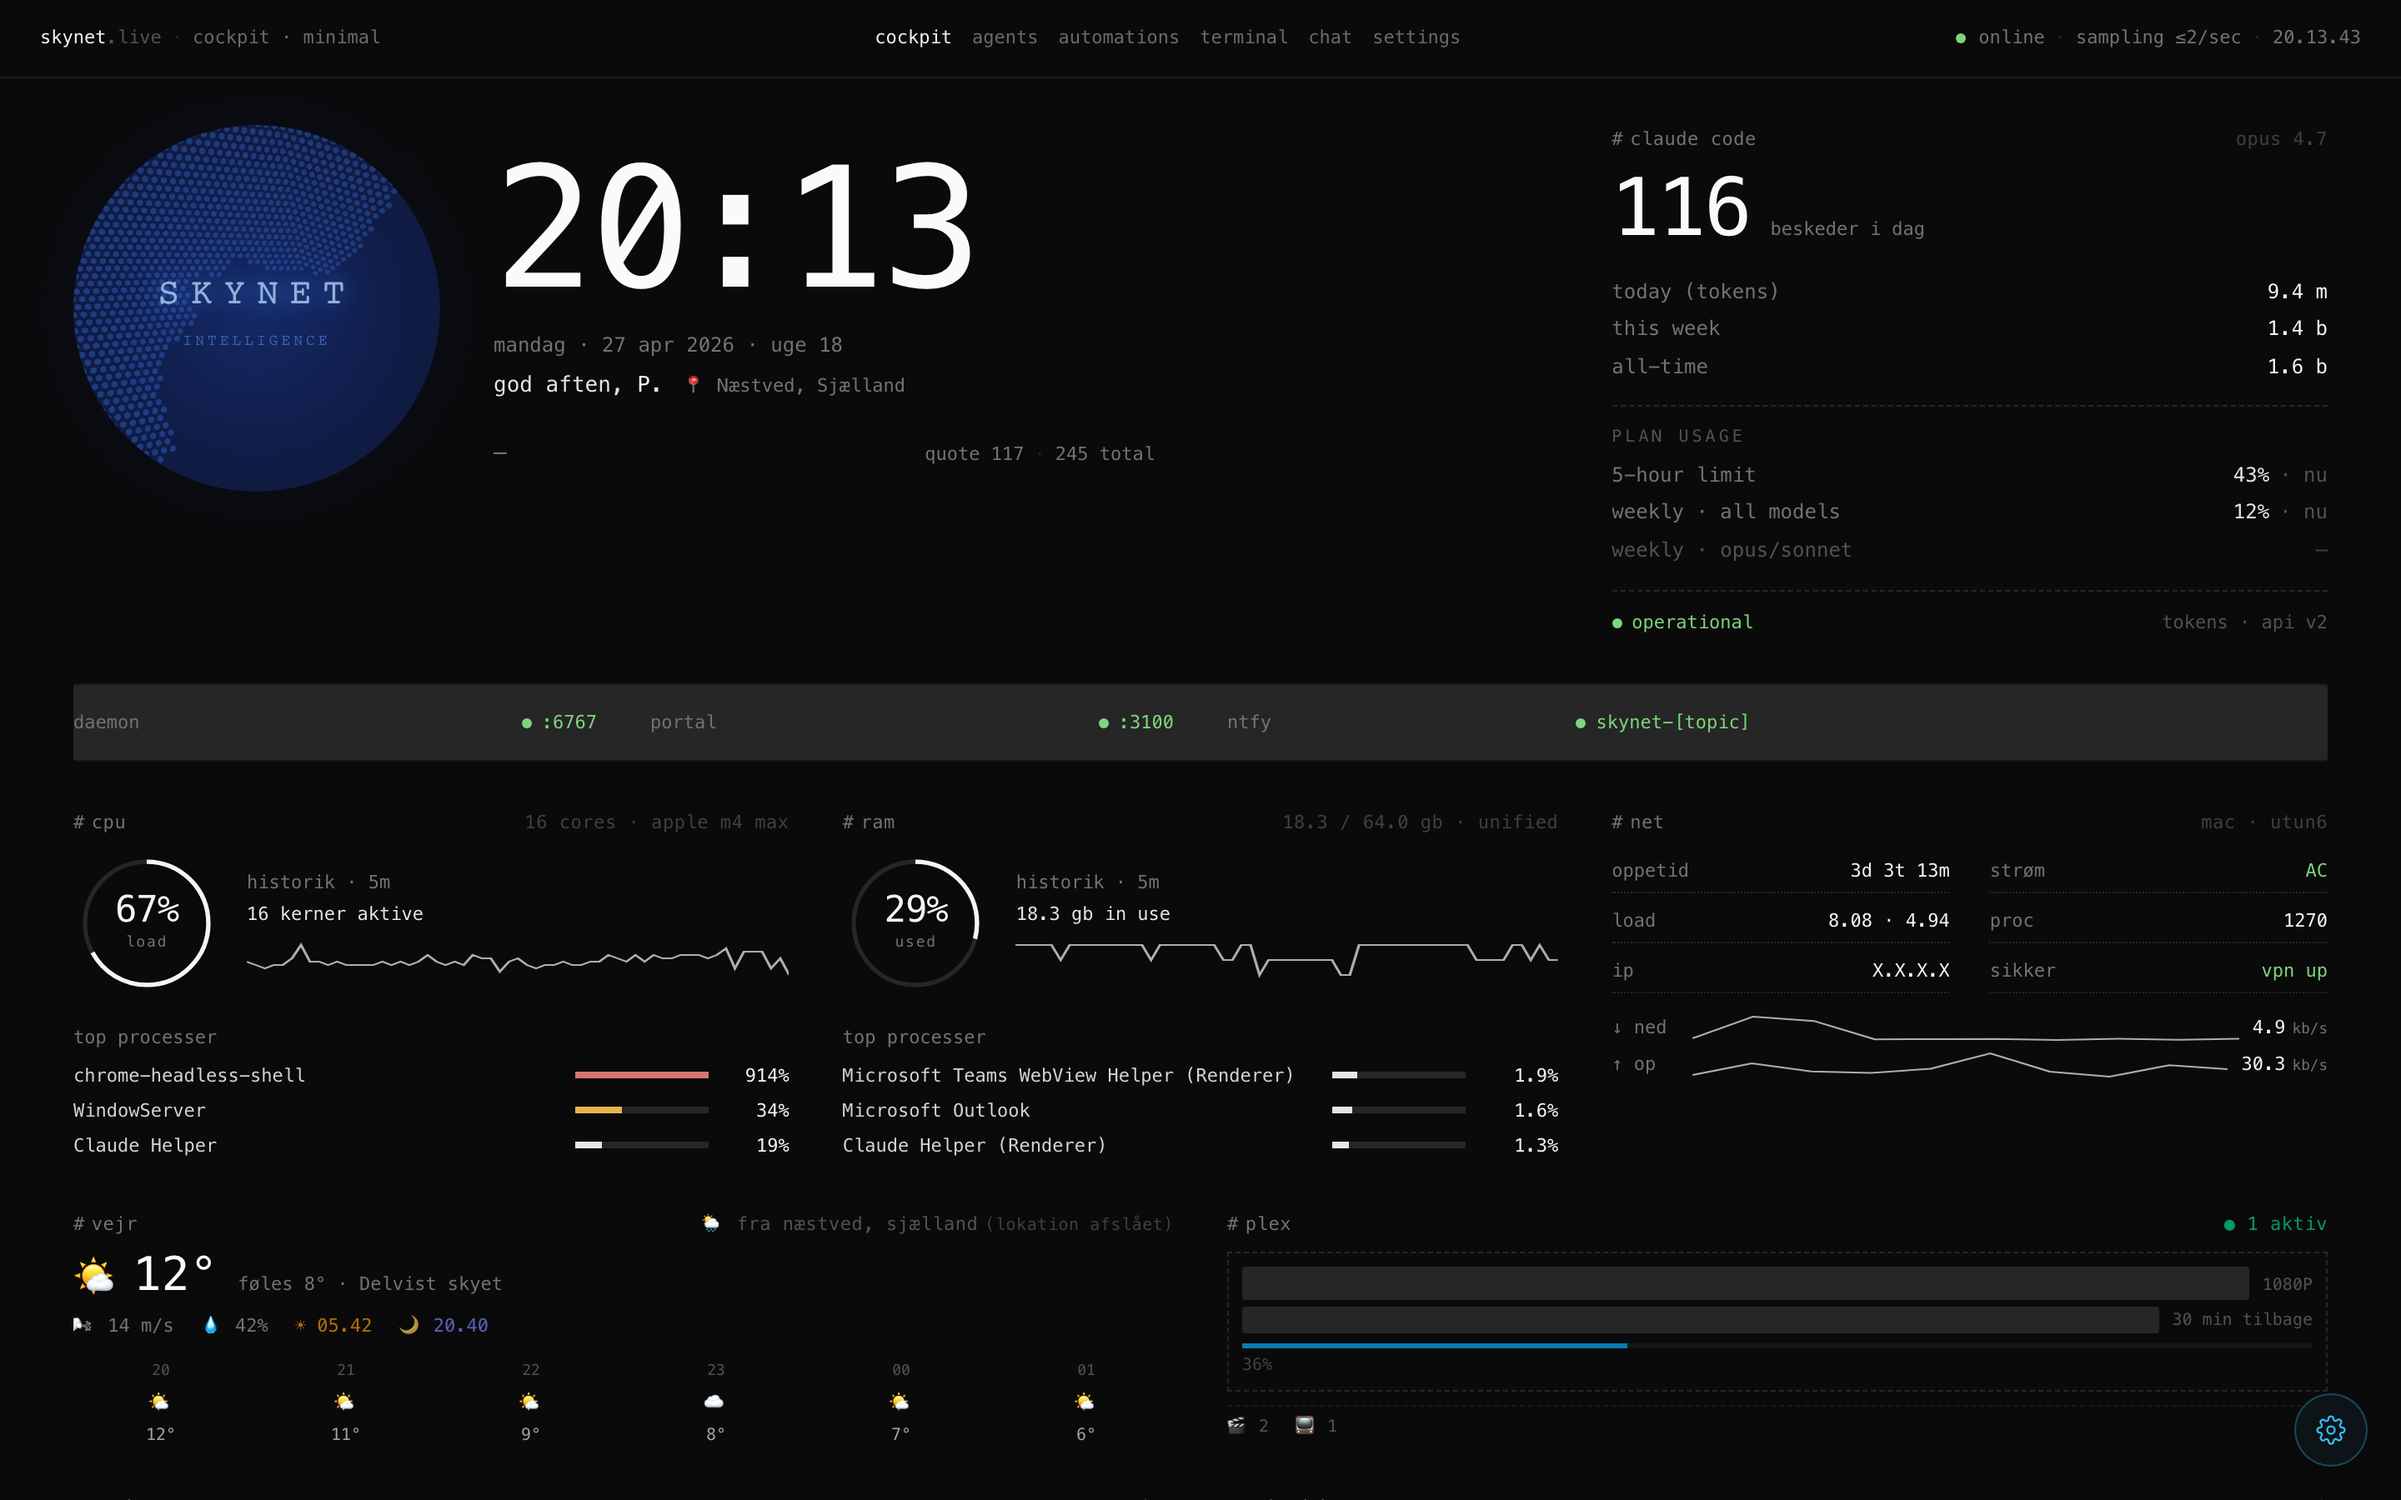
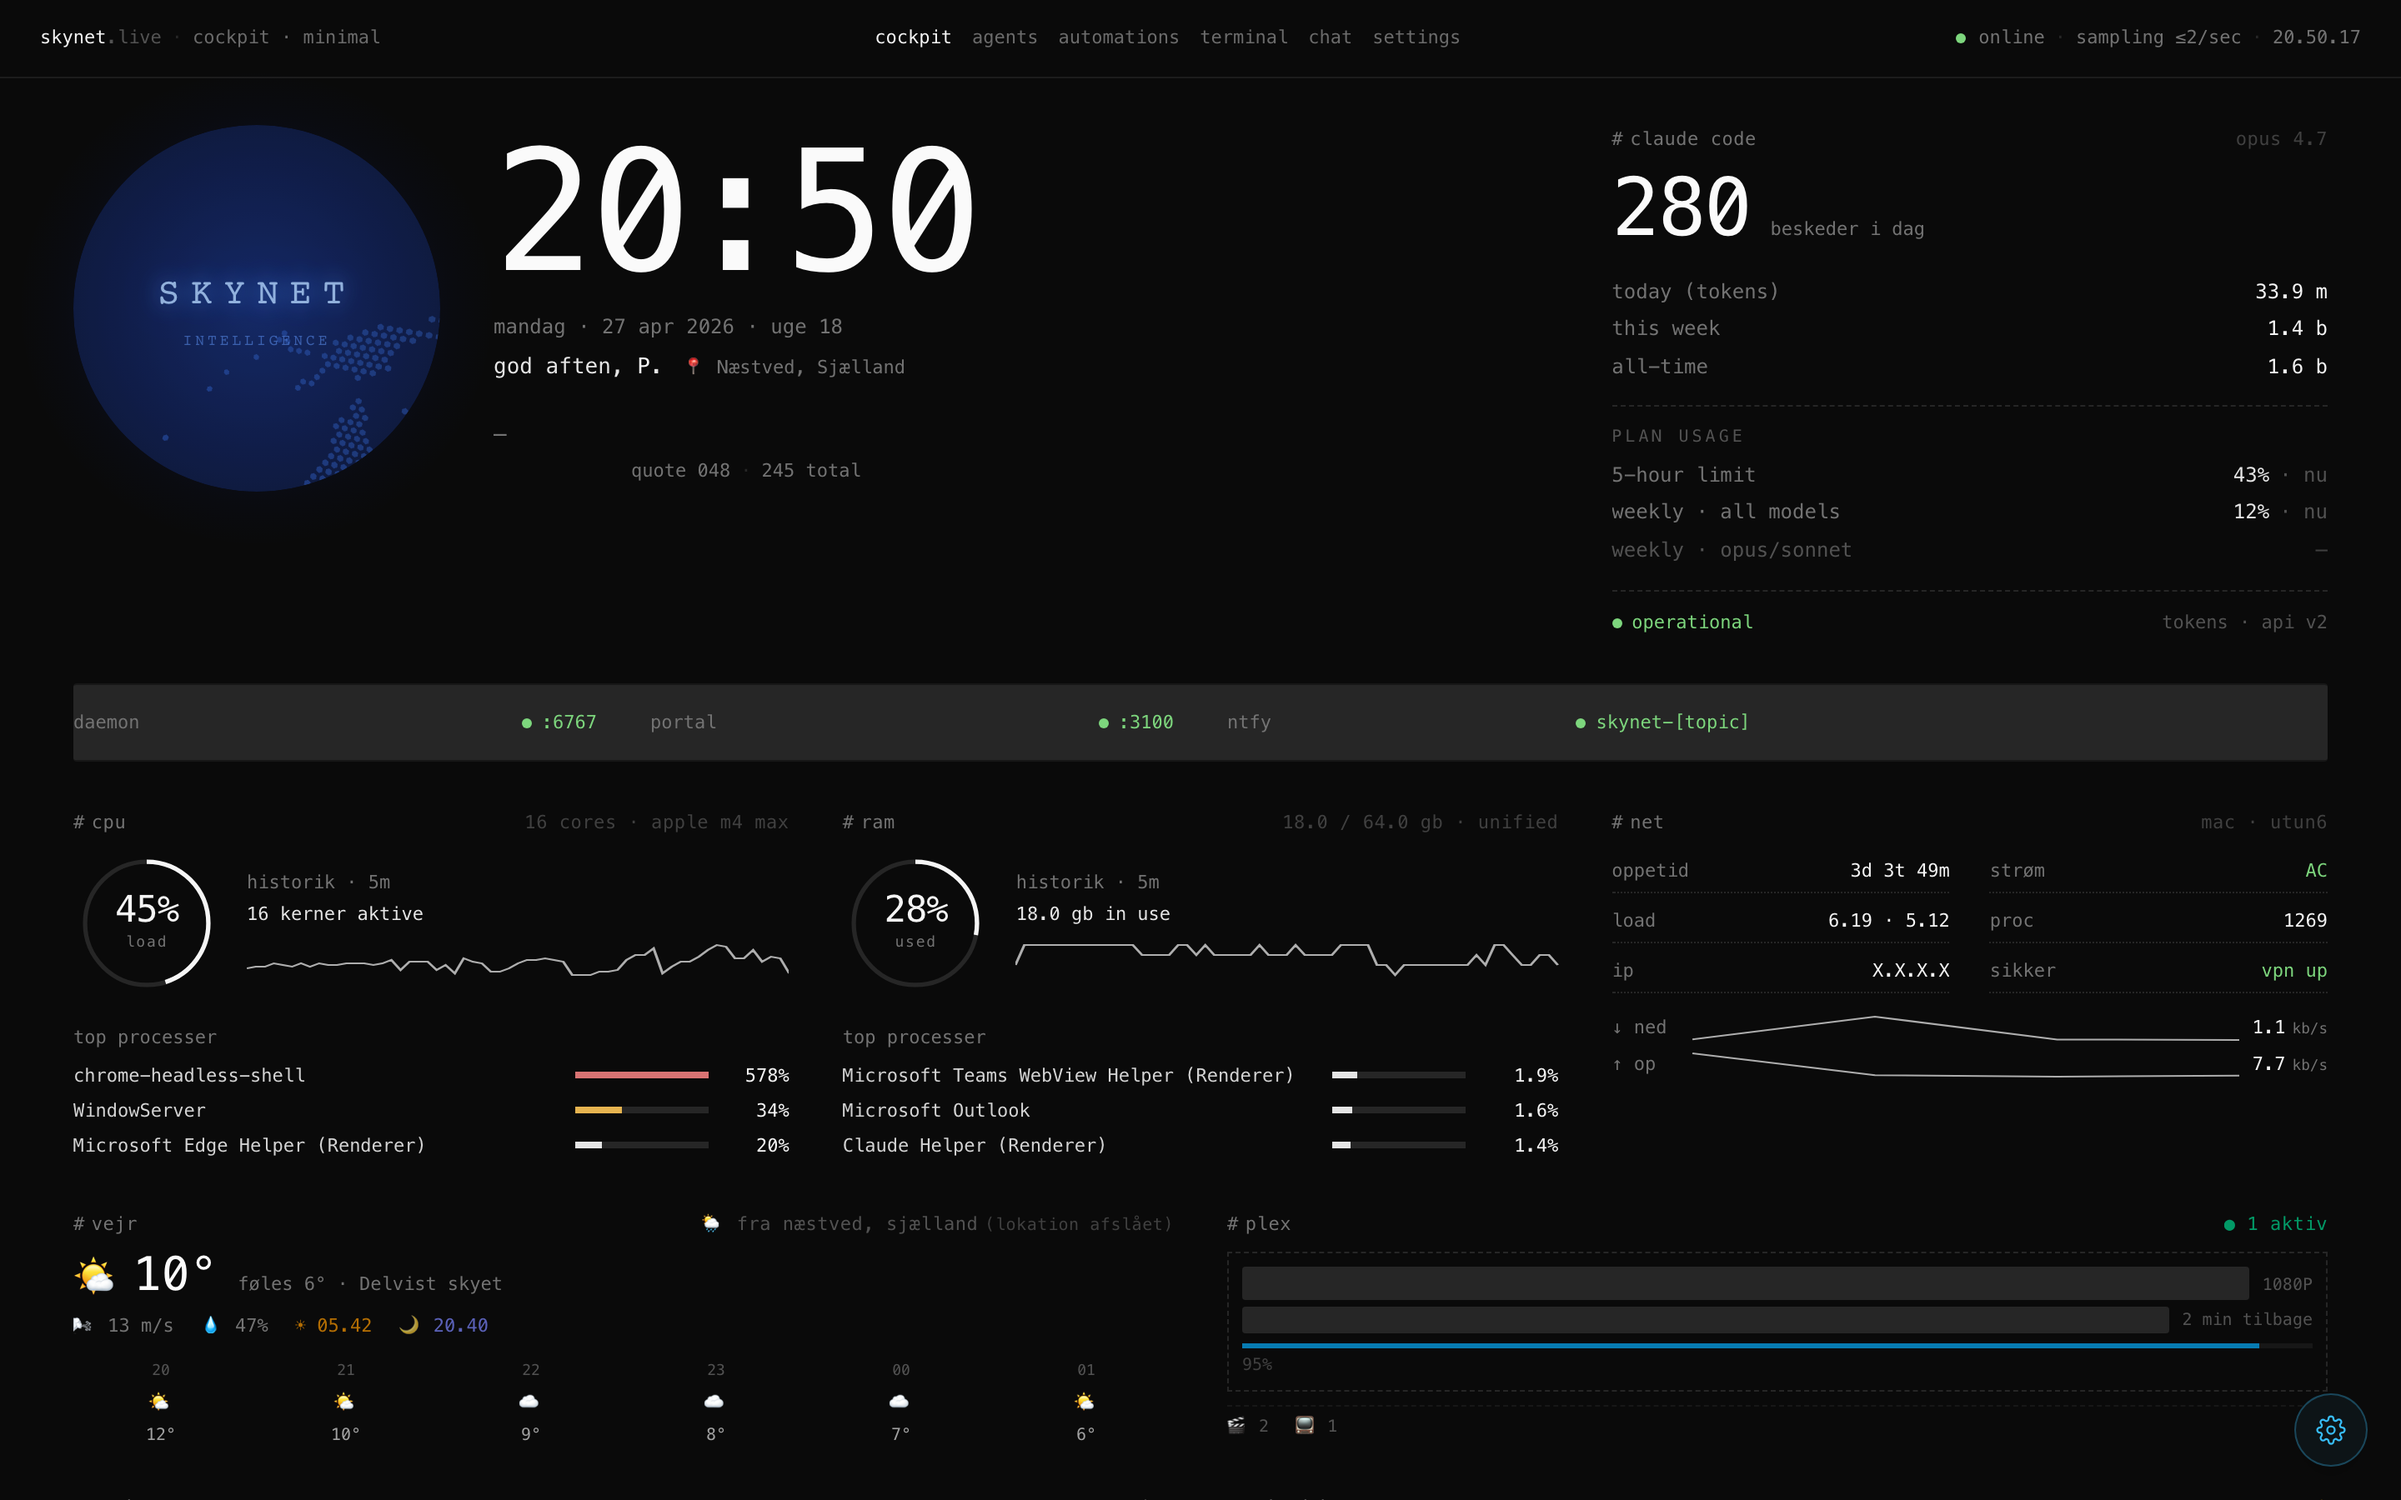
feat(github): PAT-auth + bedre trending empty-state
- /api/settings: tilføj github_token (mask via hasGithubToken bool)
- collectors/github.ts: brug Bearer token hvis sat (60→5000/t på personal)
- /api/github/trending: brug Bearer token (10→30/min på search) + smid
  fejl ved tom items[] så vi ikke cacher rate-limit-tomheden i 5 min
- TopReposWidget: empty-state peger nu på /settings med rate-limit-forklaring
  i stedet for misvisende "henter repos…"
- /settings: nyt PAT-felt (password-input, "gemt"-indikator, link til
  github.com/settings/tokens, scope-hint: kun public_repo)

GitHub Search anonymous tier (10/min) er ustabil under belastning —
returnerer 200 med tom items[] i stedet for 429. PAT-auth løser det.

diff --git a/packages/portal/src/app/settings/page.tsx b/packages/portal/src/app/settings/page.tsx
@@ -11,6 +11,7 @@ interface SettingsResp {
   userName: string;
   location: LocationSetting;
   githubUser?: string;
+  hasGithubToken?: boolean;
 }
 
 interface ModelsResp {
@@ -44,6 +45,8 @@ export default function SettingsPage() {
   const [userName, setUserName] = useState("");
   const [city, setCity] = useState("");
   const [githubUser, setGithubUser] = useState("");
+  const [githubToken, setGithubToken] = useState("");
+  const [hasGithubToken, setHasGithubToken] = useState(false);
   const [locationLabel, setLocationLabel] = useState("");
   const [savingProfile, setSavingProfile] = useState(false);
   const [savedProfile, setSavedProfile] = useState(false);
@@ -57,6 +60,7 @@ export default function SettingsPage() {
         setDefaults(data.defaults);
         setUserName(data.userName ?? "");
         setGithubUser(data.githubUser ?? "");
+        setHasGithubToken(!!data.hasGithubToken);
         setLocationLabel(data.location?.label ?? "");
       })
       .catch(() => {});
@@ -70,18 +74,22 @@ export default function SettingsPage() {
       if (city.trim()) body.city = city.trim();
       // Altid send githubUser (kan være tom → fjernes)
       body.githubUser = githubUser.trim();
+      // Send token hvis brugeren har indtastet en ny — tom = uændret
+      if (githubToken.trim()) body.githubToken = githubToken.trim();
       const res = await fetch("/api/settings", {
         method: "POST",
         headers: { "Content-Type": "application/json" },
         body: JSON.stringify(body),
       });
-      const json = await res.json() as { ok: boolean; error?: string; location?: LocationSetting };
+      const json = await res.json() as { ok: boolean; error?: string; location?: LocationSetting; hasGithubToken?: boolean };
       if (!res.ok || !json.ok) {
         setProfileError(json.error ?? "Fejl ved gem");
       } else {
         setSavedProfile(true);
         if (json.location?.label) setLocationLabel(json.location.label);
+        if (typeof json.hasGithubToken === "boolean") setHasGithubToken(json.hasGithubToken);
         setCity("");
+        setGithubToken("");
         setTimeout(() => setSavedProfile(false), 2000);
       }
     } finally { setSavingProfile(false); }
@@ -163,6 +171,25 @@ export default function SettingsPage() {
                 />
                 <div style={{ color: "#444", fontSize: 10, marginTop: 3 }}>
                   Aktiverer GitHub-widget på cockpittet (stars, commits, 30-dages heatmap, seneste aktivitet). Tom = skjult.
+                </div>
+              </div>
+              <div style={{ gridColumn: "1 / -1" }}>
+                <div style={{ color: "#6b6b6b", fontSize: 11, marginBottom: 4 }}>
+                  GitHub PAT (valgfri)
+                  {hasGithubToken && <span style={{ color: "#7dd67d", marginLeft: 6 }}>· gemt</span>}
+                </div>
+                <input
+                  type="password"
+                  value={githubToken}
+                  placeholder={hasGithubToken ? "(token gemt — indtast for at ændre)" : "ghp_…"}
+                  onChange={(e) => setGithubToken(e.target.value)}
+                  style={{ ...inputStyle }}
+                  autoComplete="off"
+                />
+                <div style={{ color: "#444", fontSize: 10, marginTop: 3 }}>
+                  Hæver rate-limit: 60→5000/t for personal-data, 10→30/min for trending.
+                  {" "}<a href="https://github.com/settings/tokens" target="_blank" rel="noreferrer" style={{ color: "#525252" }}>github.com/settings/tokens</a>
+                  {" "}· kun "public_repo" scope nødvendigt.
                 </div>
               </div>
             </div>

diff --git a/packages/portal/src/app/api/settings/route.ts b/packages/portal/src/app/api/settings/route.ts
@@ -10,19 +10,21 @@ export async function GET() {
   const userName = getUserName();
   const location = getLocation();
   const githubUser = getSetting("github_user") ?? "";
-  return Response.json({ llm, defaults: DEFAULT_LLM_CONFIG, userName, location, githubUser });
+  const hasGithubToken = !!getSetting("github_token");
+  return Response.json({ llm, defaults: DEFAULT_LLM_CONFIG, userName, location, githubUser, hasGithubToken });
 }
 
 export async function POST(req: NextRequest) {
-  let body: { llm?: Partial<LLMConfig>; userName?: string; city?: string; githubUser?: string };
+  let body: { llm?: Partial<LLMConfig>; userName?: string; city?: string; githubUser?: string; githubToken?: string };
   try {
-    body = (await req.json()) as { llm?: Partial<LLMConfig>; userName?: string; city?: string; githubUser?: string };
+    body = (await req.json()) as { llm?: Partial<LLMConfig>; userName?: string; city?: string; githubUser?: string; githubToken?: string };
   } catch {
     return Response.json({ ok: false, error: "Invalid JSON" }, { status: 400 });
   }
   if (body.llm) setLLMConfig(body.llm);
   if (typeof body.userName === "string") setUserName(body.userName);
   if (typeof body.githubUser === "string") setSetting("github_user", body.githubUser.trim());
+  if (typeof body.githubToken === "string") setSetting("github_token", body.githubToken.trim());
   if (typeof body.city === "string" && body.city.trim()) {
     const { setSettingJSON } = await import("@/lib/settings");
     const loc = await geocodeCity(body.city.trim());
@@ -35,5 +37,6 @@ export async function POST(req: NextRequest) {
     userName: getUserName(),
     location: getLocation(),
     githubUser: getSetting("github_user") ?? "",
+    hasGithubToken: !!getSetting("github_token"),
   });
 }

diff --git a/packages/portal/src/app/api/github/trending/route.ts b/packages/portal/src/app/api/github/trending/route.ts
@@ -1,6 +1,6 @@
 import { NextResponse } from "next/server";
 import { getOrRefresh } from "@/lib/cache";
-import { getSettingJSON, setSettingJSON } from "@/lib/settings";
+import { getSetting, getSettingJSON, setSettingJSON } from "@/lib/settings";
 
 export const dynamic = "force-dynamic";
 export const runtime = "nodejs";
@@ -55,6 +55,10 @@ async function fetchTrending(): Promise<TrendingResponse> {
     "User-Agent": "SkynetDashboard/1.0",
   };
 
+  // Auth: PAT hæver rate-limit fra 10/min (anonym) → 30/min (auth)
+  const token = getSetting("github_token") ?? process.env.GITHUB_TOKEN ?? "";
+  if (token) headers.Authorization = `Bearer ${token}`;
+
   // Primary: repos created in last 7 days, sorted by stars (= "new gems" à la starquake)
   const q = encodeURIComponent(`created:>${day7}`);
   const url = `https://api.github.com/search/repositories?q=${q}&sort=stars&order=desc&per_page=25`;
@@ -71,6 +75,13 @@ async function fetchTrending(): Promise<TrendingResponse> {
 
   // eslint-disable-next-line @typescript-eslint/no-explicit-any
   const data = (await res.json()) as { items: any[] };
+
+  // GitHub returnerer 200 med tom items[] når Search API er rate-limited
+  // (kender det fra anonymous-tier 10/min). Behandl det som en fejl så vi ikke
+  // cacher tomheden i 5 min — næste request kan så lykkes.
+  if (data.items.length === 0) {
+    throw new Error("GitHub Search returnerede 0 — sandsynligvis rate-limit (anonym 10/min)");
+  }
 
   // Load (or create) today's star baseline
   let baseline = getStarBaseline();

diff --git a/packages/portal/src/components/minimal/widgets/TopReposWidget.tsx b/packages/portal/src/components/minimal/widgets/TopReposWidget.tsx
@@ -169,7 +169,7 @@ export function TopReposWidget() {
           </tr>
         </thead>
         <tbody>
-          {repos.length === 0 && !error && (
+          {!data && !error && (
             <tr>
               <td colSpan={6} style={{ paddingTop: 16, color: "#3a3a3a" }}>
                 henter repos…
@@ -178,8 +178,12 @@ export function TopReposWidget() {
           )}
           {error && repos.length === 0 && (
             <tr>
-              <td colSpan={6} style={{ paddingTop: 16, color: "#d87373", fontSize: 11 }}>
-                GitHub API utilgængelig
+              <td colSpan={6} style={{ paddingTop: 16, color: "#d87373", fontSize: 11, lineHeight: 1.5 }}>
+                <div>GitHub Search utilgængelig</div>
+                <div style={{ color: "#6b6b6b", fontSize: 10, marginTop: 3 }}>
+                  Anonymous tier er 10 req/min — sæt en GitHub PAT under{" "}
+                  <a href="/settings" style={{ color: "#9bd0ff" }}>/settings</a> for 30 req/min.
+                </div>
               </td>
             </tr>
           )}

diff --git a/packages/portal/src/lib/collectors/github.ts b/packages/portal/src/lib/collectors/github.ts
@@ -47,14 +47,19 @@ interface GhEvent {
 }
 
 async function ghFetch<T>(url: string): Promise<T> {
+  const headers: Record<string, string> = {
+    accept: "application/vnd.github+json",
+    "user-agent": "skynet-dashboard",
+    "x-github-api-version": "2022-11-28",
+  };
+  // Auth: PAT hæver core-limit fra 60/t → 5000/t
+  const token = getSetting("github_token") ?? process.env.GITHUB_TOKEN ?? "";
+  if (token) headers.authorization = `Bearer ${token}`;
+
   const res = await fetch(url, {
     signal: AbortSignal.timeout(9000),
     cache: "no-store",
-    headers: {
-      accept: "application/vnd.github+json",
-      "user-agent": "skynet-dashboard",
-      "x-github-api-version": "2022-11-28",
-    },
+    headers,
   });
   if (!res.ok) throw new Error(`GitHub HTTP ${res.status} (${url})`);
   return (await res.json()) as T;
